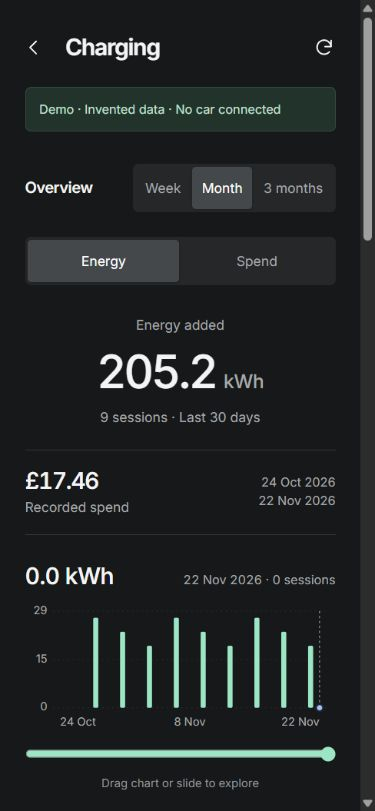
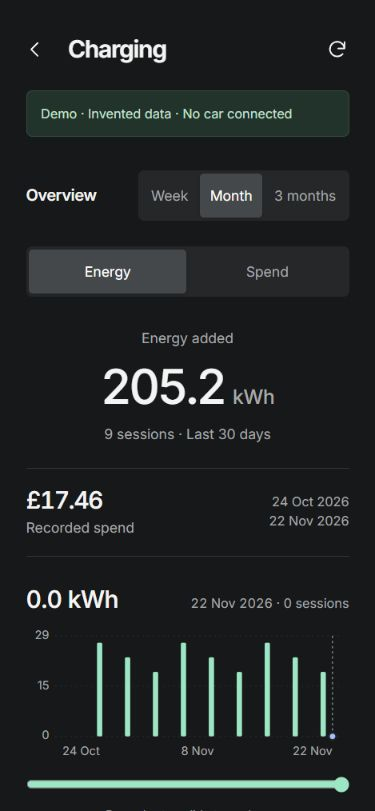
Hide scrollbar chrome and refresh app screenshots

diff --git a/brand/index.html b/brand/index.html
@@ -1,3 +1,3 @@
-<!doctype html><html lang="en"><head><meta charset="utf-8"><meta name="viewport" content="width=device-width,initial-scale=1"><title>Mate4Mobile · Brand studio</title><link rel="icon" href="app-icon.svg"><style>
+<!doctype html><html lang="en"><head><meta charset="utf-8"><meta name="viewport" content="width=device-width,initial-scale=1"><title>Mate4Mobile · Brand studio</title><link rel="icon" href="app-icon.svg"><style>html,body{scrollbar-width:none}html::-webkit-scrollbar,body::-webkit-scrollbar{display:none;width:0;height:0}
 @font-face{font-family:Inter;src:url('fonts/inter-latin.woff2')}*{box-sizing:border-box}body{margin:0;background:#161819;color:#f0f3f1;font:16px/1.7 Inter,system-ui,sans-serif}main{width:min(1100px,calc(100% - 48px));margin:auto}header{padding:40px 0;display:flex;align-items:center;justify-content:space-between}a{color:inherit}header a{font-size:14px}h1,h2,p{margin:0}h1{font-size:clamp(44px,7vw,88px);line-height:1.05;letter-spacing:-.055em;font-weight:500}h2{font-size:32px;font-weight:500;letter-spacing:-.035em;margin-bottom:25px}.muted{color:#a6aeaa}.eyebrow{color:#9ce6c5;font-size:12px;letter-spacing:.12em;margin-bottom:22px}.intro{padding:60px 0 100px}.intro p:last-child{max-width:600px;margin-top:32px;color:#a6aeaa}section{padding:60px 0;border-top:1px solid #343a37}.grid{display:grid;grid-template-columns:1fr 1fr;gap:20px}.tile{background:#202423;border-radius:16px;padding:45px;display:flex;align-items:center;justify-content:center;min-height:240px}.tile.light{background:#f0f3f1}.tile img{max-width:100%}.swatches{display:grid;grid-template-columns:repeat(5,1fr);gap:12px}.swatches div{font-size:14px}.swatches i{display:block;height:100px;border:1px solid #56615a;border-radius:10px;margin-bottom:12px;background:var(--color)}.swatches span{display:block;color:#a6aeaa}.type-display{font-size:clamp(40px,6vw,76px);letter-spacing:-.05em;line-height:1.15}.type-sample{font-size:20px;color:#a6aeaa;margin-top:24px}.icons{display:flex;align-items:end;gap:35px;flex-wrap:wrap}.icons img{border-radius:22%}.rules{display:grid;grid-template-columns:1fr 1fr;gap:50px}.rules p{color:#a6aeaa}.rules h3{font-size:18px;font-weight:500}.downloads{display:flex;flex-wrap:wrap;gap:12px}.downloads a{padding:12px 20px;border:1px solid #56615a;border-radius:6px;font-size:14px;text-decoration:none}footer{padding:50px 0;color:#a6aeaa;font-size:14px}.social{width:100%;border:1px solid #343a37;border-radius:12px}a:focus-visible{outline:2px solid #9ce6c5;outline-offset:5px}@media(max-width:650px){.grid,.rules{grid-template-columns:1fr}.swatches{grid-template-columns:repeat(2,1fr)}.tile{padding:25px;min-height:180px}header img{width:170px}.intro{padding:30px 0 60px}section{padding:40px 0}header{gap:20px}}@media print{body{background:white;color:#161819}a{color:#161819}section{break-inside:avoid}.muted,.rules p{color:#555}header a{display:none}}
 </style></head><body><main><header><img src="wordmark.svg" alt="Mate4Mobile" width="220"><a href="../">Back to the app website</a></header><div class="intro"><p class="eyebrow">THE IDENTITY / 01</p><h1>Built for the drive.<br>Designed for the glance.</h1><p>Mate4Mobile turns recorded vehicle data into a calm daily companion. Precise, quietly confident and always on the driver’s side.</p></div><section><h2>A mark that follows the journey.</h2><div class="grid"><div class="tile"><img src="mark.svg" alt="Mate4Mobile road M mark" width="180"></div><div class="tile light"><img src="mark-dark.svg" alt="Dark version of the mark" width="180"></div><div class="tile"><img src="wordmark.svg" alt="Mate4Mobile wordmark" width="390"></div><div class="tile light"><img src="wordmark-dark.svg" alt="Dark version of the wordmark" width="390"></div></div><p class="muted" style="margin-top:25px">One continuous road forms the M. A mint endpoint signals the next moment, not a command or a status alert. The compact written form is M4M.</p></section><section><h2>Quiet by default. Clear by design.</h2><div class="swatches"><div><i style="--color:#161819"></i>Ink<span>#161819</span></div><div><i style="--color:#202223"></i>Surface<span>#202223</span></div><div><i style="--color:#f0f3f1"></i>Soft white<span>#F0F3F1</span></div><div><i style="--color:#9ce6c5"></i>Signal mint<span>#9CE6C5</span></div><div><i style="--color:#a6aeaa"></i>Quiet grey<span>#A6AEAA</span></div></div></section><section><h2>Inter. Uncomplicated, at every size.</h2><p class="type-display">Every mile,<br><span style="color:#9ce6c5">in view.</span></p><p class="type-sample">82% &nbsp; 214 mi &nbsp; 7.4 kW<br>A little more context. A much clearer picture.</p><p class="muted" style="margin-top:24px">Display 500 · Headings 550–600 · Body 400<br>16px body text, 14px regular labels. Tabular numbers for telemetry.</p></section><section><h2>At home on your Home Screen.</h2><div class="icons"><img src="exports/icon-192.png" alt="Large installed app icon" width="144"><img src="exports/icon-192.png" alt="Medium installed app icon" width="96"><img src="exports/icon-192.png" alt="Small installed app icon" width="60"><img src="exports/icon-32.png" alt="Favicon at 32 pixels" width="32"><img src="exports/icon-16.png" alt="Favicon at 16 pixels" width="16"></div><p class="muted" style="margin-top:24px">A full-bleed ink background, with the entire symbol inside the maskable safe zone. Exported for browser tabs, Apple touch icons and Android installation.</p></section><section><h2>A voice that gets to the point.</h2><div class="rules"><div><h3>Say what the reading means.</h3><p>“Last recorded 12 minutes ago.”<br>“Costs recorded for 8 of 9 sessions.”<br>“Building your baseline.”</p></div><div><h3>Give uncertainty a name.</h3><p>Use “recorded”, “estimated” and “not available” precisely. Never turn missing telemetry into zero, claim battery health from a short sample, or imply the car is live when it is asleep.</p></div><div><h3>Move with purpose.</h3><p>140ms feedback, 240ms transitions, 420ms entrances. Soft deceleration. Honour reduced motion. Motion explains a change; it doesn’t compete with the data.</p></div><div><h3>Keep room around the mark.</h3><p>Minimum clear space: one stroke width. Minimum symbol size: 16px. Prefer 24px and above in interfaces. No stretching, decorative gradients or Tesla logos. Use the supplied monochrome master on busy imagery.</p></div></div></section><section><h2>Ready to share.</h2><img class="social" src="exports/social-card.png" alt="Mate4Mobile social card: Every mile, in view."></section><section><h2>The working kit.</h2><div class="downloads"><a href="mark.svg" download>SVG mark</a><a href="wordmark.svg" download>SVG wordmark</a><a href="app-icon.svg" download>App icon master</a><a href="exports/icon-1024.png" download>1024px icon</a><a href="exports/social-card.png" download>Social preview</a><a href="tokens.json" download>Design tokens</a><a href="README.md">Usage guide</a></div></section><footer>Mate4Mobile · Brand system 1.0 · Independent of Tesla and TeslaMate.<br>Original Mate4Mobile identity assets are provided under the project’s MIT licence. Tesla vehicle imagery is excluded. Do not imply official endorsement.</footer></main></body></html>

diff --git a/public/app.js b/public/app.js
@@ -355,7 +355,7 @@
   }
   function closeSheet() { if(history.state?.sheet)history.back();else{destroySheet();sheetSource?.focus();} }
   function showSettings() {
-    openSheet('Preferences',`${window.TeslaAppearance.settingsHTML()}<div class="setting-row"><label for="distance-units">Distance & speed</label><select id="distance-units"><option value="mi" ${units()==='mi'?'selected':''}>Miles · mph</option><option value="km" ${units()==='km'?'selected':''}>Kilometres · km/h</option></select></div><div class="setting-row"><span>Currency</span><span>${esc(currencyCode())}</span></div><p class="settings-note">Currency follows this installation. Prices are not converted.</p><p class="settings-note">Saved on this device. Temperatures and tyre pressure follow your TeslaMate settings.</p><button class="secondary" data-action="retry">${icon('refresh')} &nbsp; Refresh all readings</button><button class="secondary" data-action="install" id="install-button" ${installPrompt?'':'hidden'}>Install Mate4Mobile</button><p class="settings-note">Mate4Mobile displays recorded data without waking your car. Vehicle controls remain in the Tesla app.</p><button class="secondary" data-action="logout">${icon('lock')} &nbsp; Lock this device</button><p class="fine" style="margin-top:24px">Mate4Mobile 2.4.1 · Independent companion<br>Vehicle imagery © Tesla. Not affiliated with Tesla or TeslaMate.</p>`);
+    openSheet('Preferences',`${window.TeslaAppearance.settingsHTML()}<div class="setting-row"><label for="distance-units">Distance & speed</label><select id="distance-units"><option value="mi" ${units()==='mi'?'selected':''}>Miles · mph</option><option value="km" ${units()==='km'?'selected':''}>Kilometres · km/h</option></select></div><div class="setting-row"><span>Currency</span><span>${esc(currencyCode())}</span></div><p class="settings-note">Currency follows this installation. Prices are not converted.</p><p class="settings-note">Saved on this device. Temperatures and tyre pressure follow your TeslaMate settings.</p><button class="secondary" data-action="retry">${icon('refresh')} &nbsp; Refresh all readings</button><button class="secondary" data-action="install" id="install-button" ${installPrompt?'':'hidden'}>Install Mate4Mobile</button><p class="settings-note">Mate4Mobile displays recorded data without waking your car. Vehicle controls remain in the Tesla app.</p><button class="secondary" data-action="logout">${icon('lock')} &nbsp; Lock this device</button><p class="fine" style="margin-top:24px">Mate4Mobile 2.4.2 · Independent companion<br>Vehicle imagery © Tesla. Not affiliated with Tesla or TeslaMate.</p>`);
     window.TeslaAppearance.mount();
   }
   function showVehicle() {

diff --git a/public/styles.css b/public/styles.css
@@ -6,6 +6,10 @@
   color-scheme: dark; font: 16px Inter,-apple-system,BlinkMacSystemFont,"Segoe UI",sans-serif; font-synthesis: none;
 }
 * { box-sizing: border-box; -webkit-tap-highlight-color: transparent; }
+/* Keep native scrolling while hiding browser chrome on app surfaces. */
+html, body, .sidebar, .sheet-body { scrollbar-width: none; }
+html::-webkit-scrollbar, body::-webkit-scrollbar,
+.sidebar::-webkit-scrollbar, .sheet-body::-webkit-scrollbar { display: none; width: 0; height: 0; }
 body { margin: 0; background: var(--bg); color: var(--text); line-height: 1.45; min-height: 100dvh; overscroll-behavior-y: contain; }
 button,input,select { font: inherit; }
 button,a,input,select { touch-action: manipulation; }

diff --git a/public/sw.js b/public/sw.js
@@ -1,6 +1,6 @@
 'use strict';
 // The release installer stamps this value. Private API responses are NEVER cached.
-const CACHE = 'tm-mobile-m4m-2.4.1-currency';
+const CACHE = 'tm-mobile-m4m-2.4.2-currency';
 const SHELL = ['/', '/styles.css', '/app.js','/money.js', '/charts.js', '/vehicle-catalog.js', '/appearance.js', '/manifest.webmanifest', '/assets/model-3.png', '/assets/inter-latin.woff2', '/brand-mark.svg', '/brand-wordmark.svg', '/favicon.svg', '/apple-touch-icon.png', '/icon-192.png', '/icon-512.png'];
 self.addEventListener('install', event => {
   event.waitUntil(caches.open(CACHE).then(cache => cache.addAll(SHELL)).then(() => self.skipWaiting()));

diff --git a/src/server.js b/src/server.js
@@ -777,7 +777,7 @@ const server = http.createServer(async (req, res) => {
     }
     if (pathname === '/healthz') {
       await pool.query('select 1');
-      return json(res, 200, { ok: true, version: '2.4.1', ts: new Date().toISOString() });
+      return json(res, 200, { ok: true, version: '2.4.2', ts: new Date().toISOString() });
     }
 
     if (pathname === '/api/login' && req.method === 'POST') {

diff --git a/site/style.css b/site/style.css
@@ -9,3 +9,7 @@
 @media(max-width:760px){.orbit{display:none}.feature-list,.setup-steps p,.site-footer nav{font-size:14px}}
 
 @media(max-width:1100px){.orbit{display:none}}
+
+/* The showcase and embedded app share a quiet, scrollbar-free surface. */
+html,body{scrollbar-width:none}
+html::-webkit-scrollbar,body::-webkit-scrollbar{display:none;width:0;height:0}

diff --git a/docs/CHANGELOG.md b/docs/CHANGELOG.md
@@ -1,5 +1,11 @@
 # Changelog
 
+## 2.4.2 — Unobtrusive scrolling
+
+- Hid visible scrollbar tracks on the app page, desktop sidebar and detail sheets while preserving native scrolling and keyboard navigation.
+- Applied the same treatment to the showcase and brand board, including the embedded app preview.
+- Refreshed the README screenshots from the updated interface using synthetic data.
+
 ## 2.4.1 — Currency configuration and repository cleanup
 
 - Validated and normalized the environment currency, with consistent formatting across cost totals, tariffs, session fees and charts. Documented GBP, EUR, USD and other supported currencies; Preferences shows the configured code.
